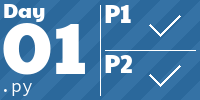
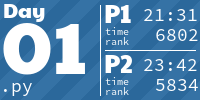
Finish Day 1, 2015.

diff --git a/src/solutions/2015/day01.py b/src/solutions/2015/day01.py
@@ -1,0 +1,73 @@
+from typing import TypeVar
+
+from aocd import get_data, submit
+
+from utils.decorators import time_function
+
+# Define a TypeVar to represent the output type of `parse`
+ParsedType = TypeVar("ParsedType")
+
+
+@time_function
+def part_a(data: ParsedType) -> int:
+    floor = 0
+    for c in data:
+        if c == "(":
+            floor += 1
+        elif c == ")":
+            floor -= 1
+    return floor
+
+
+@time_function
+def part_b(data: ParsedType) -> int:
+    floor = 0
+    char = 1
+    for c in data:
+        if c == "(":
+            floor += 1
+        elif c == ")":
+            floor -= 1
+        if floor == -1:
+            return char
+        char += 1
+
+
+def parse(data: str) -> ParsedType:
+    return data  # Replace with actual parsing logic.
+
+
+def solve(year: int, day: int, part: str, test: bool, submit_result: bool) -> None:
+
+    # If we're testing, we need to load the test data instead of the real data.
+    # Those are defined as triple quotes strings at the bottom of the file.
+    if test:
+        data = part1_testdata if part == "a" else part2_testdata
+    else:
+        # Get the correct day's input data, waiting for it to be released if necessary.
+        data = get_data(year=year, day=day, block=True)
+
+    data = parse(data)
+
+    # Run the appropriate part of the solution.
+    if part == "a":
+        result = part_a(data)
+    elif part == "b":
+        result = part_b(data)
+    else:
+        print(f"Invalid part: {part}")
+        return
+
+    # Print the result.
+    print(f"Solution: {result}")
+
+    # Submit if desired.
+    if submit_result:
+        submit(result, part=part, year=year, day=day)
+
+
+part1_testdata = """))(((((
+"""
+
+part2_testdata = """()())
+"""

diff --git a/README.md b/README.md
@@ -9,4 +9,10 @@ Collection of my Advent of Code solutions done in Python.
 <a href="src/solutions/2024/day01.py">
   <img src=".aoc_tiles/tiles/2024/01.png" width="161px">
 </a>
+<h1 align="center">
+  2015 - 2 ⭐ - Python
+</h1>
+<a href="src/solutions/2015/day01.py">
+  <img src=".aoc_tiles/tiles/2015/01.png" width="161px">
+</a>
 <!-- AOC TILES END -->
